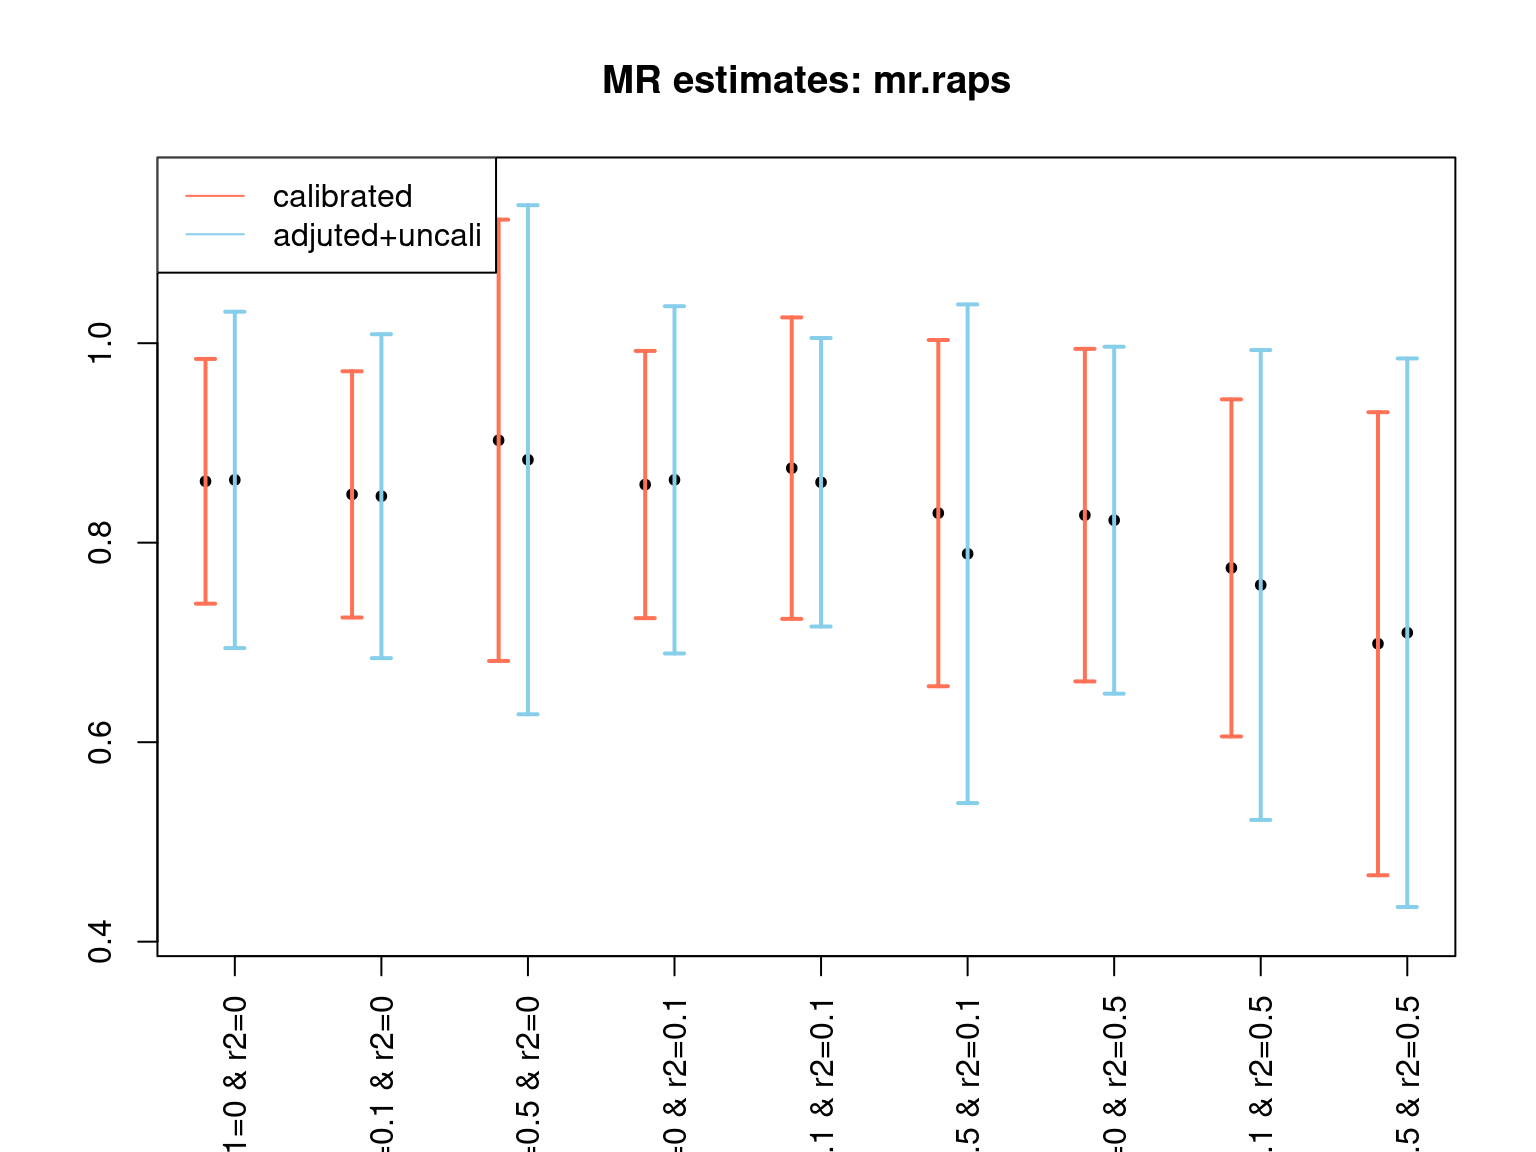
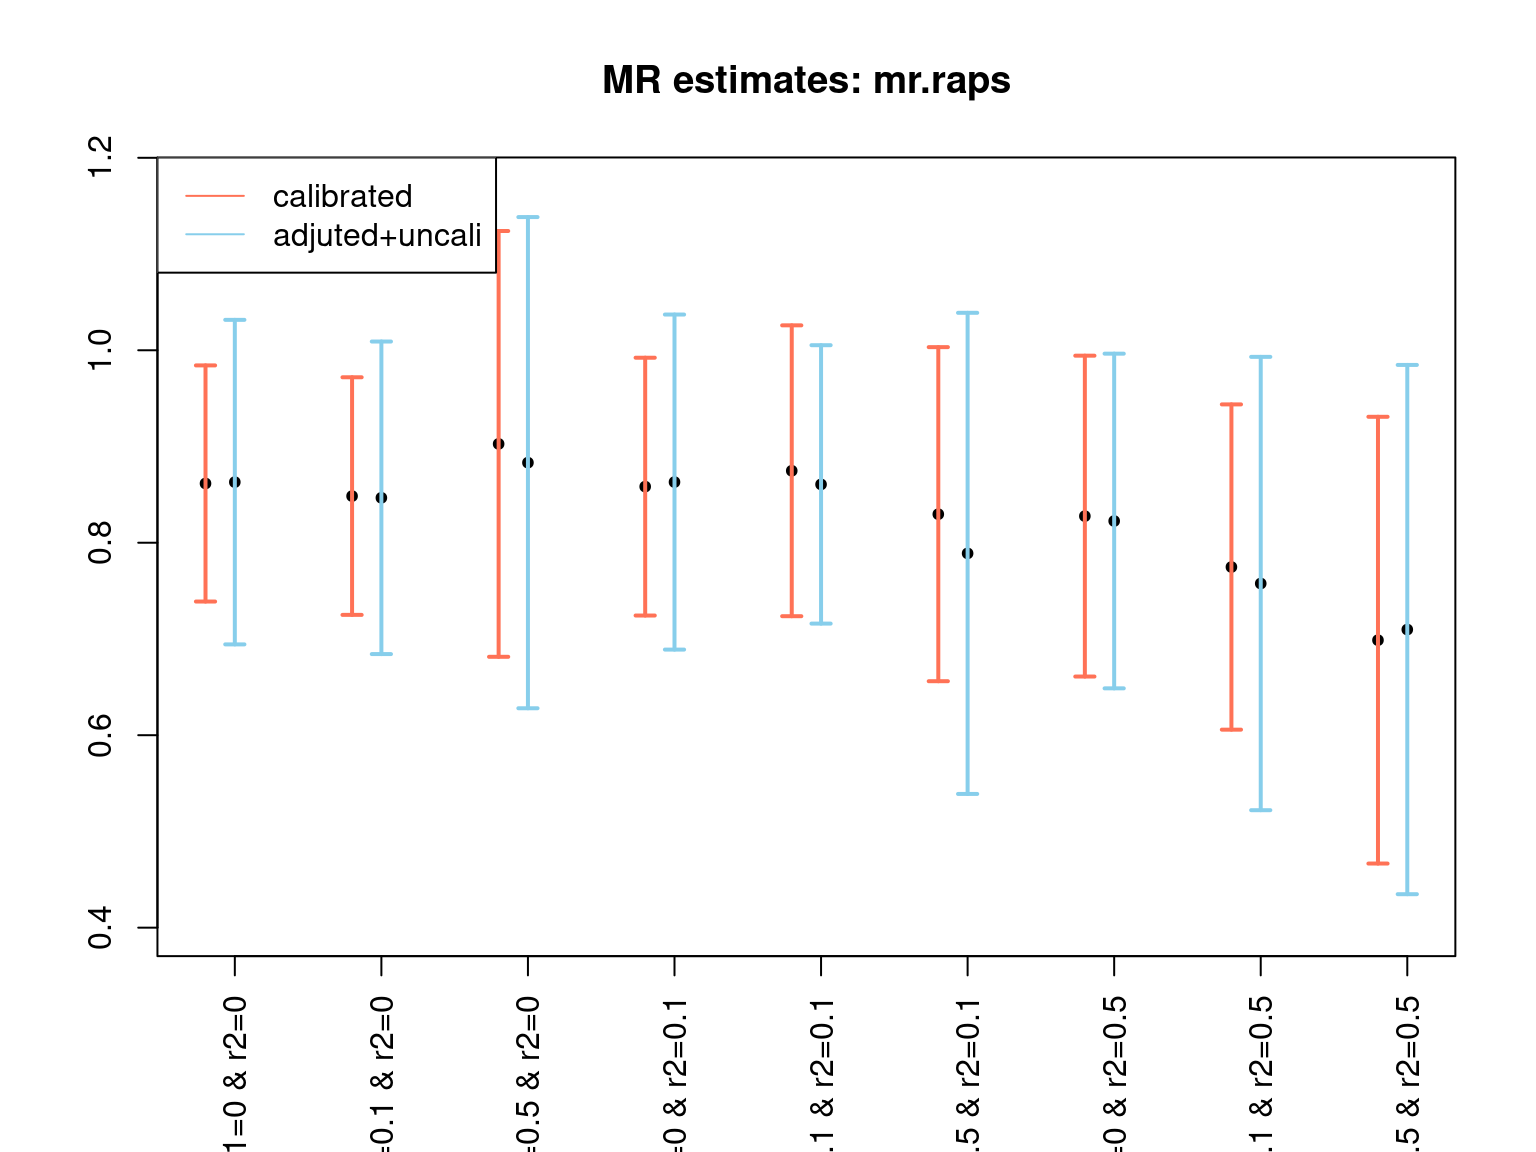
Build site.

diff --git a/docs/mr_trio.html b/docs/mr_trio.html
@@ -522,15 +522,15 @@ project makes it easier to run your code on other machines.</p>
 <div class="panel panel-default">
 <div class="panel-heading">
 <p class="panel-title">
-<a data-toggle="collapse" data-parent="#workflowr-checks" href="#strongRepositoryversionstrongahrefhttpsgithubcomyunqiyang0215simulationcalibratedmrtree441c49153f6dcd70b8c2b907d260ac0829a94d95targetblank441c491a">
+<a data-toggle="collapse" data-parent="#workflowr-checks" href="#strongRepositoryversionstrongahrefhttpsgithubcomyunqiyang0215simulationcalibratedmrtreebabeb48077eab869f00a846fc82ef9c037282dd1targetblankbabeb48a">
 <span class="glyphicon glyphicon-ok text-success"
 aria-hidden="true"></span> <strong>Repository version:</strong>
-<a href="https://github.com/yunqiyang0215/simulation-calibrated-mr/tree/441c49153f6dcd70b8c2b907d260ac0829a94d95" target="_blank">441c491</a>
+<a href="https://github.com/yunqiyang0215/simulation-calibrated-mr/tree/babeb48077eab869f00a846fc82ef9c037282dd1" target="_blank">babeb48</a>
 </a>
 </p>
 </div>
 <div
[2 lines of base64/hex data omitted]
 class="panel-collapse collapse">
 <div class="panel-body">
 <p>
@@ -540,7 +540,7 @@ reproducibility.
 </p>
 <p>
 The results in this page were generated with repository version
-<a href="https://github.com/yunqiyang0215/simulation-calibrated-mr/tree/441c49153f6dcd70b8c2b907d260ac0829a94d95" target="_blank">441c491</a>.
+<a href="https://github.com/yunqiyang0215/simulation-calibrated-mr/tree/babeb48077eab869f00a846fc82ef9c037282dd1" target="_blank">babeb48</a>.
 See the <em>Past versions</em> tab to see a history of the changes made
 to the R Markdown and HTML files.
 </p>
@@ -607,6 +607,40 @@ Message
 </tr>
 </thead>
 <tbody>
+<tr>
+<td>
+Rmd
+</td>
+<td>
+<a href="https://github.com/yunqiyang0215/simulation-calibrated-mr/blob/babeb48077eab869f00a846fc82ef9c037282dd1/analysis/mr_trio.Rmd" target="_blank">babeb48</a>
+</td>
+<td>
+yunqi yang
+</td>
+<td>
+2024-04-19
+</td>
+<td>
+wflow_publish("analysis/mr_trio.Rmd")
+</td>
+</tr>
+<tr>
+<td>
+html
+</td>
+<td>
+<a href="https://rawcdn.githack.com/yunqiyang0215/simulation-calibrated-mr/9dc602e5d6f9934800379ebe99c37a4d1236807a/docs/mr_trio.html" target="_blank">9dc602e</a>
+</td>
+<td>
+yunqi yang
+</td>
+<td>
+2024-04-19
+</td>
+<td>
+Build site.
+</td>
+</tr>
 <tr>
 <td>
 Rmd
@@ -879,6 +913,17 @@ Date
 <tbody>
 <tr>
 <td>
+<a href="https://github.com/yunqiyang0215/simulation-calibrated-mr/blob/9dc602e5d6f9934800379ebe99c37a4d1236807a/docs/figure/mr_trio.Rmd/unnamed-chunk-4-1.png" target="_blank">9dc602e</a>
+</td>
+<td>
+yunqi yang
+</td>
+<td>
+2024-04-19
+</td>
+</tr>
+<tr>
+<td>
 <a href="https://github.com/yunqiyang0215/simulation-calibrated-mr/blob/0b524b116d8d78020fd1caa7921a1afab6d56357/docs/figure/mr_trio.Rmd/unnamed-chunk-4-1.png" target="_blank">0b524b1</a>
 </td>
 <td>
@@ -977,6 +1022,17 @@ Date
 </tr>
 </thead>
 <tbody>
+<tr>
+<td>
+<a href="https://github.com/yunqiyang0215/simulation-calibrated-mr/blob/9dc602e5d6f9934800379ebe99c37a4d1236807a/docs/figure/mr_trio.Rmd/unnamed-chunk-6-1.png" target="_blank">9dc602e</a>
+</td>
+<td>
+yunqi yang
+</td>
+<td>
+2024-04-19
+</td>
+</tr>
 <tr>
 <td>
 <a href="https://github.com/yunqiyang0215/simulation-calibrated-mr/blob/0b524b116d8d78020fd1caa7921a1afab6d56357/docs/figure/mr_trio.Rmd/unnamed-chunk-6-1.png" target="_blank">0b524b1</a>
@@ -1358,11 +1414,11 @@ labels = apply(combinations, 1, function(x) paste0(&quot;r1=&quot;,x[1], &quot; 
 x_pos &lt;- rep(1:ncomb, each = 2)
 x_pos &lt;- x_pos + rep(c(-0.2, 0), ncomb)
   
-plot(x = x_pos, y = means, ylim = range(means - 2.1*ses, means + 2.1*ses), pch = 20,
+plot(x = x_pos, y = means, ylim = range(means - 2.2*ses, means + 2.2*ses), pch = 20,
      xlab = &quot;&quot;, ylab = &quot;&quot;, main = &quot;MR estimates: IVW&quot;, xaxt = &#39;n&#39;)
 # Add error bars
 arrows(x0 = x_pos, y0 = means - 1.96*ses, x1 = x_pos, y1 = means + 1.96*ses,
-       code = 2, angle = 90, length = 0.05, lwd = 2, col = rep(c(&quot;coral1&quot;, &quot;skyblue&quot;), ncomb))
+       code = 3, angle = 90, length = 0.05, lwd = 2, col = rep(c(&quot;coral1&quot;, &quot;skyblue&quot;), ncomb))
 
 axis(1, at = c(1:ncomb), labels = labels, las = 2)
 legend(&quot;topleft&quot;, legend = c(&quot;calibrated&quot;, &quot;adjuted+uncali&quot;), lty = 1, col = c(&quot;coral1&quot;, &quot;skyblue&quot;))</code></pre>
@@ -1389,6 +1445,17 @@ Date
 </tr>
 </thead>
 <tbody>
+<tr>
+<td>
+<a href="https://github.com/yunqiyang0215/simulation-calibrated-mr/blob/9dc602e5d6f9934800379ebe99c37a4d1236807a/docs/figure/mr_trio.Rmd/unnamed-chunk-19-1.png" target="_blank">9dc602e</a>
+</td>
+<td>
+yunqi yang
+</td>
+<td>
+2024-04-19
+</td>
+</tr>
 <tr>
 <td>
 <a href="https://github.com/yunqiyang0215/simulation-calibrated-mr/blob/091b26da0d9313f43a306b92c23dfee1336cee79/docs/figure/mr_trio.Rmd/unnamed-chunk-19-1.png" target="_blank">091b26d</a>
@@ -1423,7 +1490,7 @@ labels = apply(combinations, 1, function(x) paste0(&quot;r1=&quot;,x[1], &quot; 
 x_pos &lt;- rep(1:ncomb, each = 2)
 x_pos &lt;- x_pos + rep(c(-0.2, 0), ncomb)
   
-plot(x = x_pos, y = means, ylim = range(means - 2.1*ses, means + 2.1*ses), pch = 20,
+plot(x = x_pos, y = means, ylim = range(means - 2.2*ses, means + 2.2*ses), pch = 20,
      xlab = &quot;&quot;, ylab = &quot;&quot;, main = &quot;MR estimates: mr.raps&quot;, xaxt = &#39;n&#39;)
 # Add error bars
 arrows(x0 = x_pos, y0 = means - 1.96*ses, x1 = x_pos, y1 = means + 1.96*ses,
@@ -1454,6 +1521,17 @@ Date
 </tr>
 </thead>
 <tbody>
+<tr>
+<td>
+<a href="https://github.com/yunqiyang0215/simulation-calibrated-mr/blob/9dc602e5d6f9934800379ebe99c37a4d1236807a/docs/figure/mr_trio.Rmd/unnamed-chunk-21-1.png" target="_blank">9dc602e</a>
+</td>
+<td>
+yunqi yang
+</td>
+<td>
+2024-04-19
+</td>
+</tr>
 <tr>
 <td>
 <a href="https://github.com/yunqiyang0215/simulation-calibrated-mr/blob/091b26da0d9313f43a306b92c23dfee1336cee79/docs/figure/mr_trio.Rmd/unnamed-chunk-21-1.png" target="_blank">091b26d</a>
